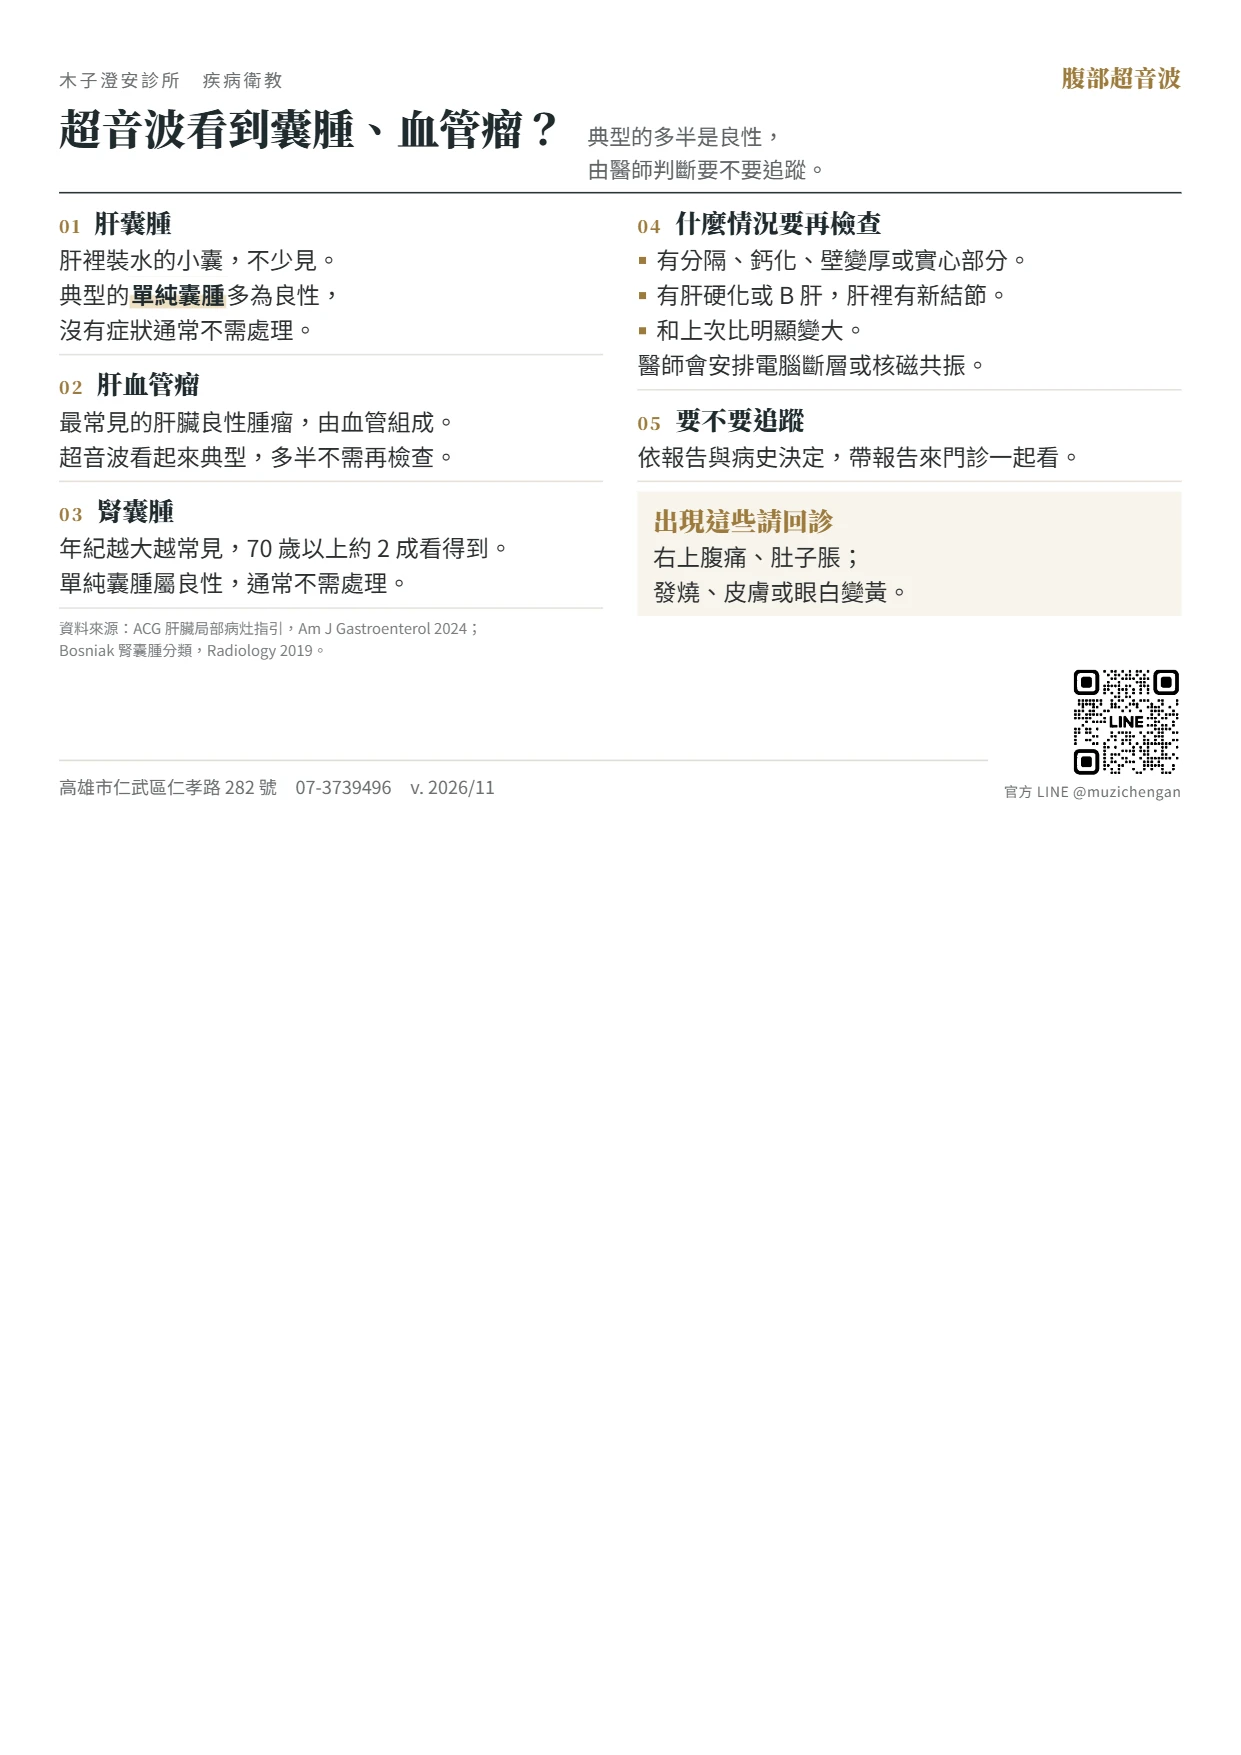
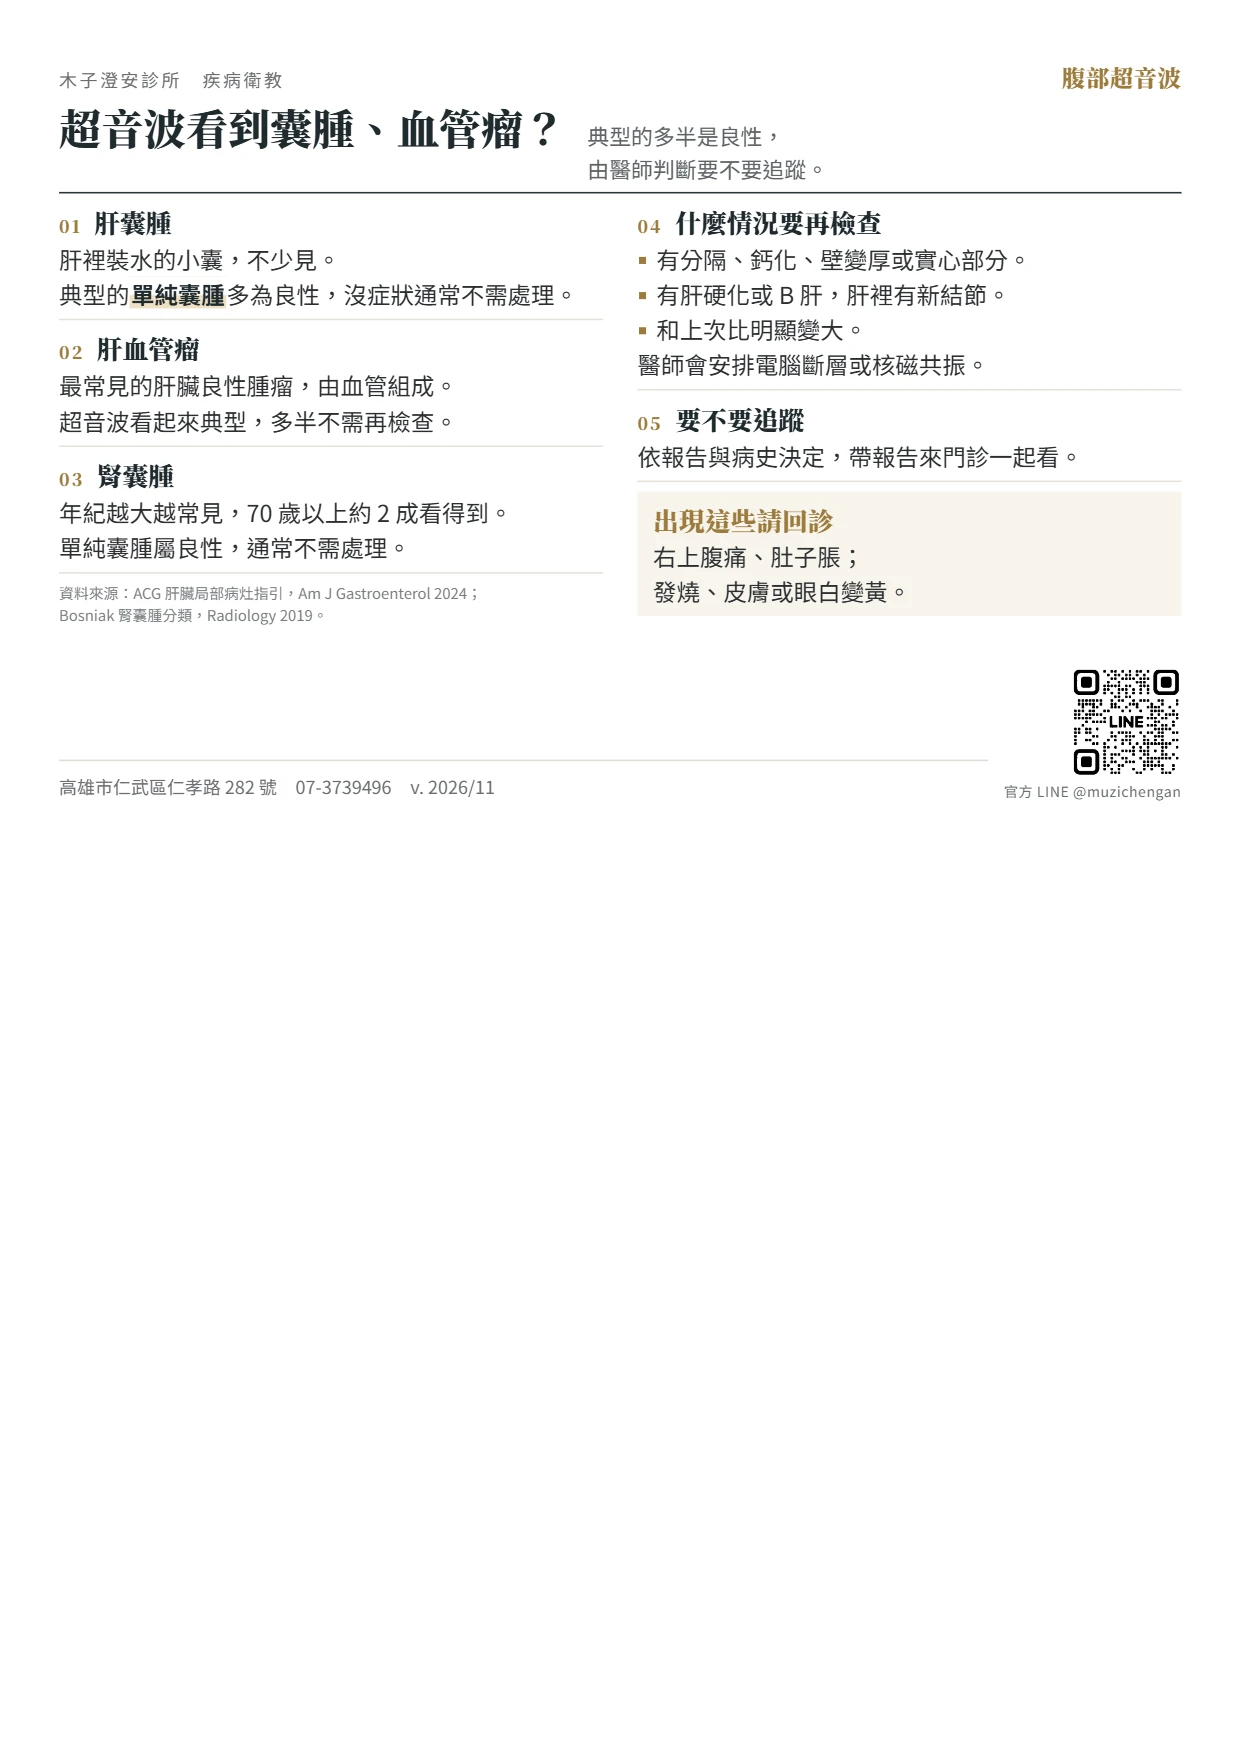
衛教：超音波發現衛教單肝囊腫兩句縮成一行

Changed region(s): [[0.0306, 0.1846, 0.3981, 0.3692], [0.2756, 0.1538, 0.4593, 0.1846]]

diff --git a/edu-src/a5.html b/edu-src/a5.html
@@ -1619,7 +1619,7 @@ table.fm th.hi{color:var(--red);}
   <div class="cols">
     <div class="col">
       <div class="row"><div class="k"><small>01</small><b>肝囊腫</b></div>
-        <div class="v"><p>肝裡裝水的小囊，不少見。<br>典型的<span class="hl">單純囊腫</span>多為良性，<br>沒有症狀通常不需處理。</p></div></div>
+        <div class="v"><p>肝裡裝水的小囊，不少見。<br>典型的<span class="hl">單純囊腫</span>多為良性，沒症狀通常不需處理。</p></div></div>
       <div class="row"><div class="k"><small>02</small><b>肝血管瘤</b></div>
         <div class="v"><p>最常見的肝臟良性腫瘤，由血管組成。<br>超音波看起來典型，多半不需再檢查。</p></div></div>
       <div class="row"><div class="k"><small>03</small><b>腎囊腫</b></div>

diff --git a/sw.js b/sw.js
@@ -9,7 +9,7 @@
    工作台開啟後會把所有衛教與表單圖片預先存下，斷網時也能顯示與列印。
    網路很慢（伺服器 3 秒內沒回應，圖片 6 秒）時先用快取開啟，背景照樣把新版存下，下次開啟就是新版；
    以前會一直等到連線逾時，網路卡住時整個工作台白畫面。 */
-const CACHE = 'tools-v121';
+const CACHE = 'tools-v122';
 const CORE = [
   './', 'index.html',
   'mount.js', 'revision.js',
